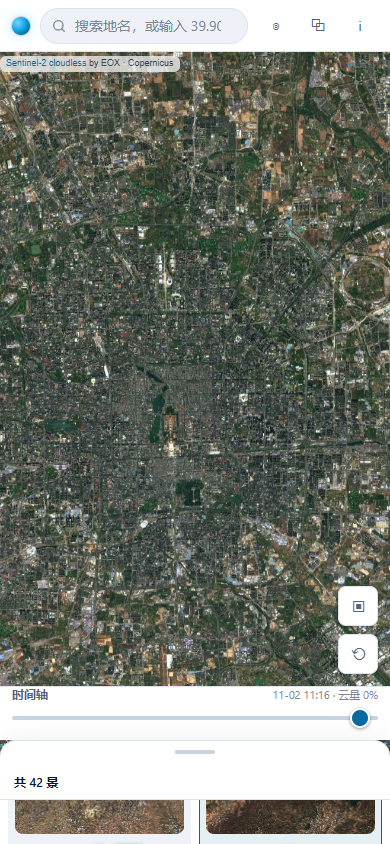
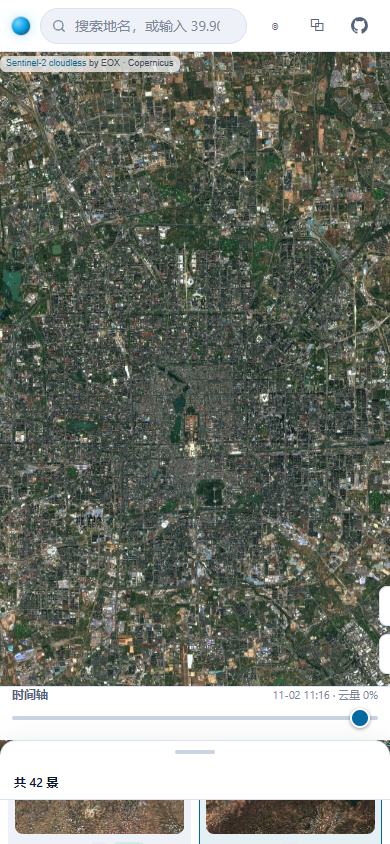
docs: 更新线上截图（含 GitHub 入口与关于面板）

diff --git a/README.md b/README.md
@@ -35,6 +35,12 @@ npm run preview    # 预览构建产物 http://localhost:4173
 
 不想装 Node？直接双击 **`standalone.html`** —— 同一套功能的免构建版本（原生 JS + 本地 Leaflet）。
 
+顶栏的 GitHub 图标直达仓库；「关于」面板里能看到仓库、许可、技术栈，以及说明文档 / 架构设计 / 问题反馈的入口。
+
+<p align="center">
+  <img src="docs/shot-about.png" width="720" alt="关于面板中的开源项目信息">
+</p>
+
 ### 质量闸门
 
 ```bash
